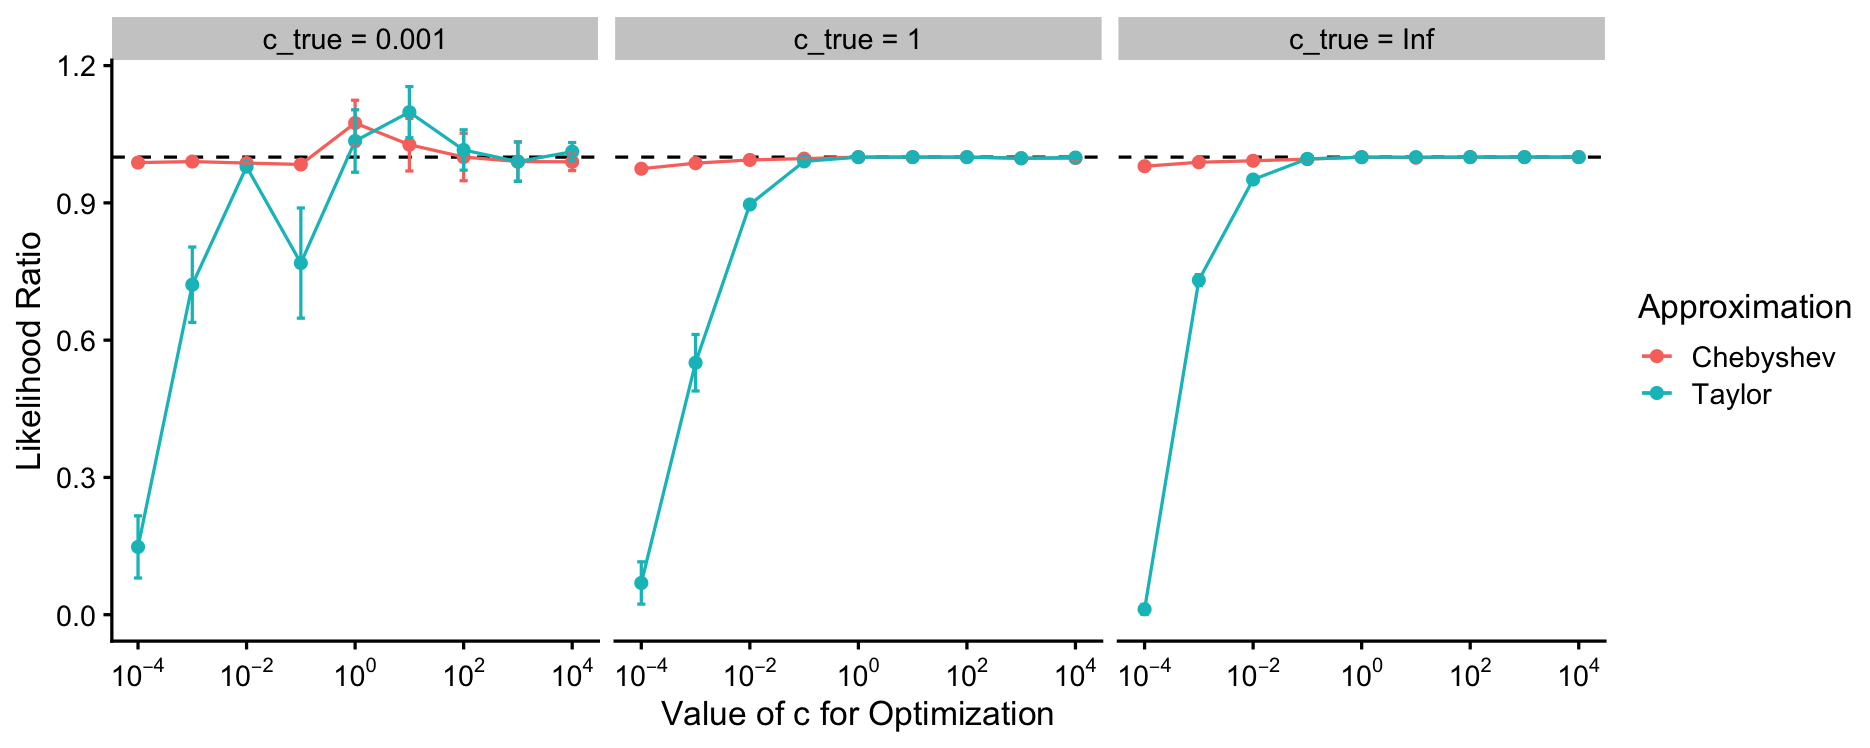
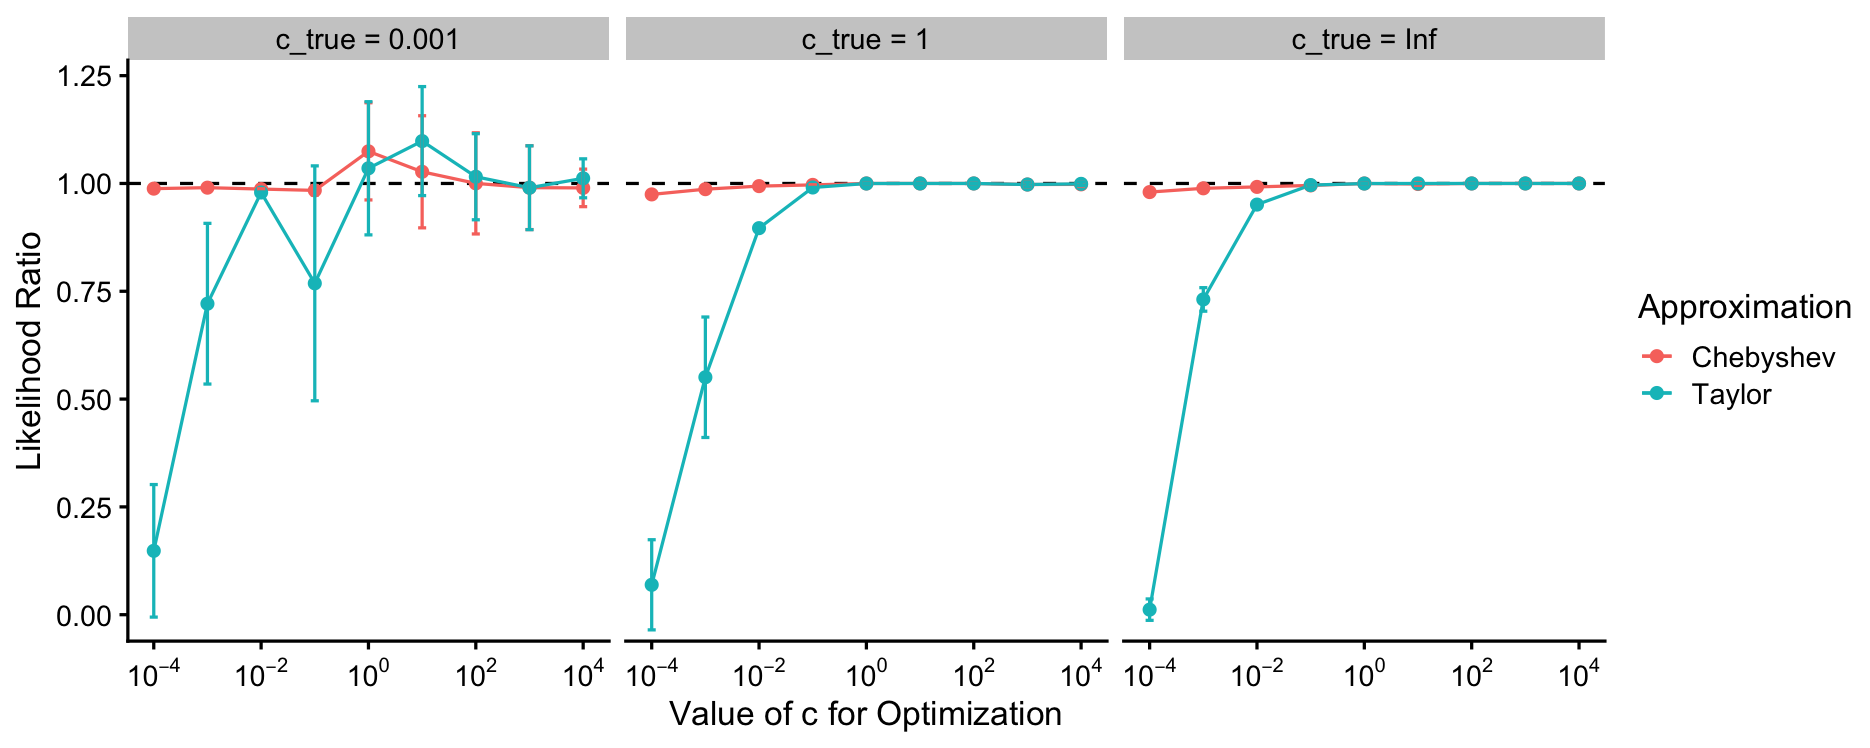
Build site.

diff --git a/docs/sim_design.html b/docs/sim_design.html
@@ -549,15 +549,15 @@ project makes it easier to run your code on other machines.</p>
 <div class="panel panel-default">
 <div class="panel-heading">
 <p class="panel-title">
-<a data-toggle="collapse" data-parent="#workflowr-checks" href="#strongRepositoryversionstrongahrefhttpsgithubcomeweinelog1pexperimentstree950e6f78f1f176990d3e0fb1498f238a0e33c8b3targetblank950e6f7a">
+<a data-toggle="collapse" data-parent="#workflowr-checks" href="#strongRepositoryversionstrongahrefhttpsgithubcomeweinelog1pexperimentstreed946579ce1c1cb0437f5b5f15bb8762f92f52987targetblankd946579a">
 <span class="glyphicon glyphicon-ok text-success"
 aria-hidden="true"></span> <strong>Repository version:</strong>
-<a href="https://github.com/eweine/log1p_experiments/tree/950e6f78f1f176990d3e0fb1498f238a0e33c8b3" target="_blank">950e6f7</a>
+<a href="https://github.com/eweine/log1p_experiments/tree/d946579ce1c1cb0437f5b5f15bb8762f92f52987" target="_blank">d946579</a>
 </a>
 </p>
 </div>
 <div
[2 lines of base64/hex data omitted]
 class="panel-collapse collapse">
 <div class="panel-body">
 <p>
@@ -567,7 +567,7 @@ reproducibility.
 </p>
 <p>
 The results in this page were generated with repository version
-<a href="https://github.com/eweine/log1p_experiments/tree/950e6f78f1f176990d3e0fb1498f238a0e33c8b3" target="_blank">950e6f7</a>.
+<a href="https://github.com/eweine/log1p_experiments/tree/d946579ce1c1cb0437f5b5f15bb8762f92f52987" target="_blank">d946579</a>.
 See the <em>Past versions</em> tab to see a history of the changes made
 to the R Markdown and HTML files.
 </p>
@@ -632,6 +632,40 @@ Message
 </tr>
 </thead>
 <tbody>
+<tr>
+<td>
+Rmd
+</td>
+<td>
+<a href="https://github.com/eweine/log1p_experiments/blob/d946579ce1c1cb0437f5b5f15bb8762f92f52987/analysis/sim_design.Rmd" target="_blank">d946579</a>
+</td>
+<td>
+Eric Weine
+</td>
+<td>
+2026-08-10
+</td>
+<td>
+approx-ratio figure: 95% CI error bars instead of +/- 1 SE
+</td>
+</tr>
+<tr>
+<td>
+html
+</td>
+<td>
+<a href="https://rawcdn.githack.com/eweine/log1p_experiments/c11592303da69098b86fa7e38793df0d3dbfa21a/docs/sim_design.html" target="_blank">c115923</a>
+</td>
+<td>
+Eric Weine
+</td>
+<td>
+2026-08-10
+</td>
+<td>
+Build site.
+</td>
+</tr>
 <tr>
 <td>
 Rmd
@@ -1676,20 +1710,22 @@ class="math inline">\(\bar\ell\)</span> is the per-entry exact
 log-likelihood of the fitted rates — <span
 class="math inline">\(1\)</span> means the approximation loses nothing,
 <span class="math inline">\(0\)</span> means it collapses. Mean over the
-ten seeds, error bars <span class="math inline">\(\pm 1\)</span>
-standard error.</p>
+ten seeds, error bars a 95% confidence interval (<span
+class="math inline">\(t_{9}\)</span>-based).</p>
 <pre class="r"><code>ap &lt;- subset(res, method != &quot;exact&quot;)
 ap$ratio &lt;- exp(ap$gap_pe)
 ap$Approximation &lt;- ifelse(ap$method == &quot;taylor&quot;, &quot;Taylor&quot;, &quot;Chebyshev&quot;)
 agg &lt;- do.call(data.frame,
   aggregate(ratio ~ Approximation + cc + ct, ap,
-            function(x) c(mean = mean(x), se = sd(x) / sqrt(length(x)))))
-ymax &lt;- max(1.05, agg$ratio.mean + agg$ratio.se)
+            function(x) c(mean = mean(x),
+                          half = qt(0.975, length(x) - 1) *
+                                 sd(x) / sqrt(length(x)))))
+ymax &lt;- max(1.05, agg$ratio.mean + agg$ratio.half)
 ggplot(agg, aes(cc, ratio.mean, colour = Approximation)) +
   geom_hline(yintercept = 1, linetype = &quot;dashed&quot;) +
   geom_line() + geom_point() +
-  geom_errorbar(aes(ymin = ratio.mean - ratio.se,
-                    ymax = ratio.mean + ratio.se), width = 0.15) +
+  geom_errorbar(aes(ymin = ratio.mean - ratio.half,
+                    ymax = ratio.mean + ratio.half), width = 0.15) +
   scale_x_continuous(transform = &quot;log10&quot;,
                      breaks = c(1e-4, 1e-2, 1, 1e2, 1e4),
                      labels = scales::label_log()) +
@@ -1697,6 +1733,43 @@ ggplot(agg, aes(cc, ratio.mean, colour = Approximation)) +
   facet_wrap(~ ct, nrow = 1) +
   labs(x = &quot;Value of c for Optimization&quot;, y = &quot;Likelihood Ratio&quot;)</code></pre>
 <p><img src="figure/sim_design.Rmd/approx-ratio-fig-1.png" alt="" width="935" style="display: block; margin: auto;" /></p>
+<p>
+<button type="button" class="btn btn-default btn-xs btn-workflowr btn-workflowr-fig" data-toggle="collapse" data-target="#fig-approx-ratio-fig-1">
+Past versions of approx-ratio-fig-1.png
+</button>
+</p>
+<div id="fig-approx-ratio-fig-1" class="collapse">
+<div class="table-responsive">
+<table class="table table-condensed table-hover">
+<thead>
+<tr>
+<th>
+Version
+</th>
+<th>
+Author
+</th>
+<th>
+Date
+</th>
+</tr>
+</thead>
+<tbody>
+<tr>
+<td>
+<a href="https://github.com/eweine/log1p_experiments/blob/c11592303da69098b86fa7e38793df0d3dbfa21a/docs/figure/sim_design.Rmd/approx-ratio-fig-1.png" target="_blank">c115923</a>
+</td>
+<td>
+Eric Weine
+</td>
+<td>
+2026-08-10
+</td>
+</tr>
+</tbody>
+</table>
+</div>
+</div>
 <p>Two regimes are visible. For <span
 class="math inline">\(c_{\textrm{fit}} \geq 0.1\)</span>
 <strong>both</strong> approximations sit on the dashed line: per-entry
@@ -1738,6 +1811,43 @@ methods.</p>
        title = &quot;Iterations to convergence&quot;,
        subtitle = &quot;one point per seed; line = median over seeds&quot;)</code></pre>
 <p><img src="figure/sim_design.Rmd/iterations-fig-1.png" alt="" width="935" style="display: block; margin: auto;" /></p>
+<p>
+<button type="button" class="btn btn-default btn-xs btn-workflowr btn-workflowr-fig" data-toggle="collapse" data-target="#fig-iterations-fig-1">
+Past versions of iterations-fig-1.png
+</button>
+</p>
+<div id="fig-iterations-fig-1" class="collapse">
+<div class="table-responsive">
+<table class="table table-condensed table-hover">
+<thead>
+<tr>
+<th>
+Version
+</th>
+<th>
+Author
+</th>
+<th>
+Date
+</th>
+</tr>
+</thead>
+<tbody>
+<tr>
+<td>
+<a href="https://github.com/eweine/log1p_experiments/blob/c11592303da69098b86fa7e38793df0d3dbfa21a/docs/figure/sim_design.Rmd/iterations-fig-1.png" target="_blank">c115923</a>
+</td>
+<td>
+Eric Weine
+</td>
+<td>
+2026-08-10
+</td>
+</tr>
+</tbody>
+</table>
+</div>
+</div>
 <p>Iteration counts rise steadily as <span
 class="math inline">\(c_{\textrm{fit}}\)</span> decreases for every
 method — at <span class="math inline">\(c_{\textrm{fit}} =
@@ -1845,6 +1955,17 @@ Date
 <tbody>
 <tr>
 <td>
+<a href="https://github.com/eweine/log1p_experiments/blob/c11592303da69098b86fa7e38793df0d3dbfa21a/docs/figure/sim_design.Rmd/sparsity-fig-1.png" target="_blank">c115923</a>
+</td>
+<td>
+Eric Weine
+</td>
+<td>
+2026-08-10
+</td>
+</tr>
+<tr>
+<td>
 <a href="https://github.com/eweine/log1p_experiments/blob/61e6cb9a616f57a935ff1728e14b245f3b65f4fa/docs/figure/sim_design.Rmd/sparsity-fig-1.png" target="_blank">61e6cb9</a>
 </td>
 <td>
@@ -1926,6 +2047,17 @@ Date
 </tr>
 </thead>
 <tbody>
+<tr>
+<td>
+<a href="https://github.com/eweine/log1p_experiments/blob/c11592303da69098b86fa7e38793df0d3dbfa21a/docs/figure/sim_design.Rmd/rankcor-fig-1.png" target="_blank">c115923</a>
+</td>
+<td>
+Eric Weine
+</td>
+<td>
+2026-08-10
+</td>
+</tr>
 <tr>
 <td>
 <a href="https://github.com/eweine/log1p_experiments/blob/61e6cb9a616f57a935ff1728e14b245f3b65f4fa/docs/figure/sim_design.Rmd/rankcor-fig-1.png" target="_blank">61e6cb9</a>
